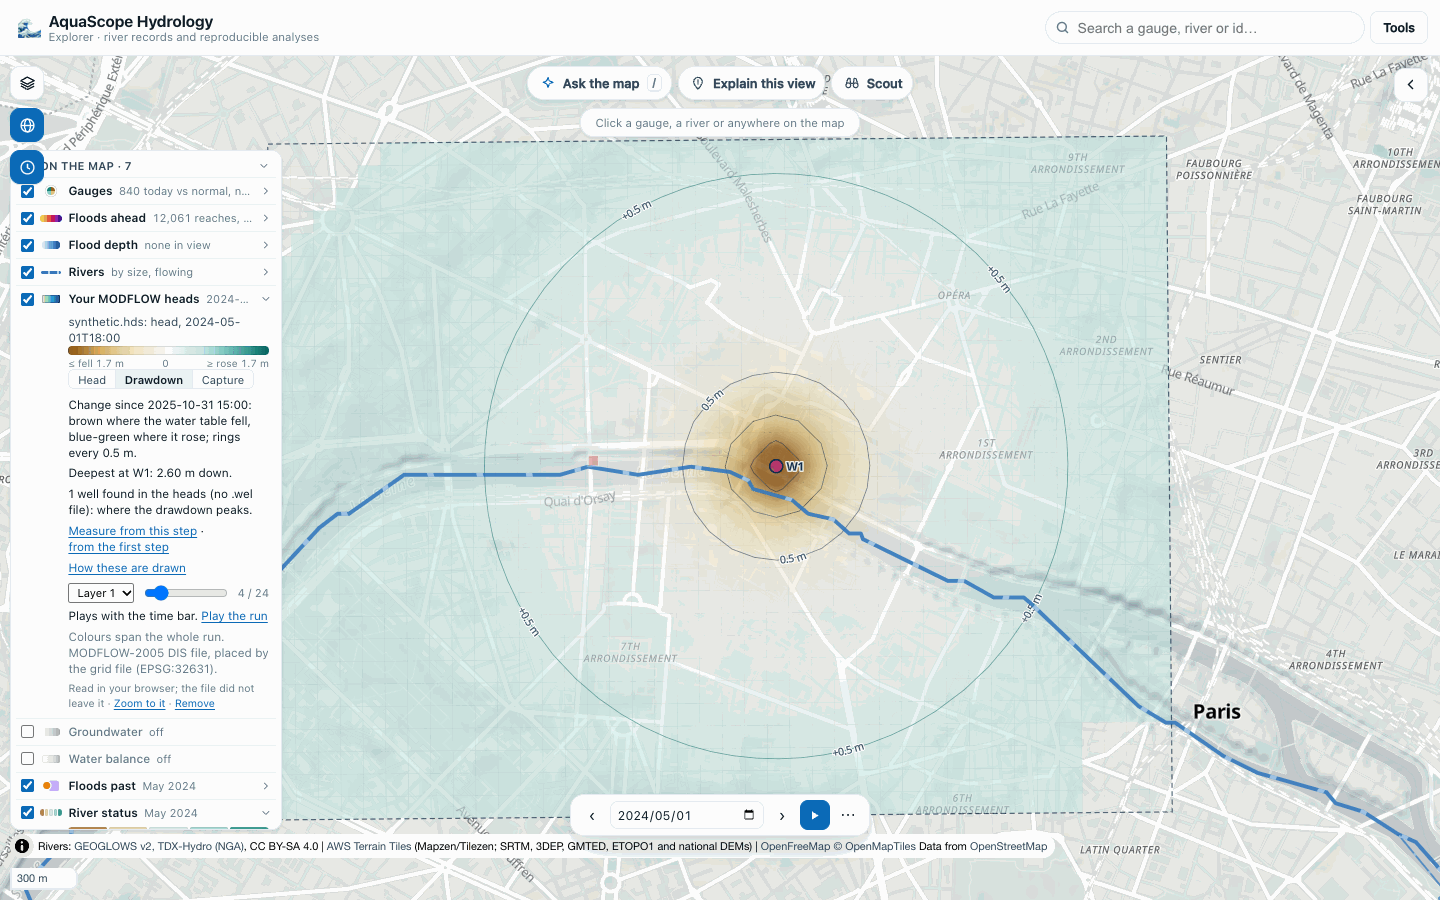
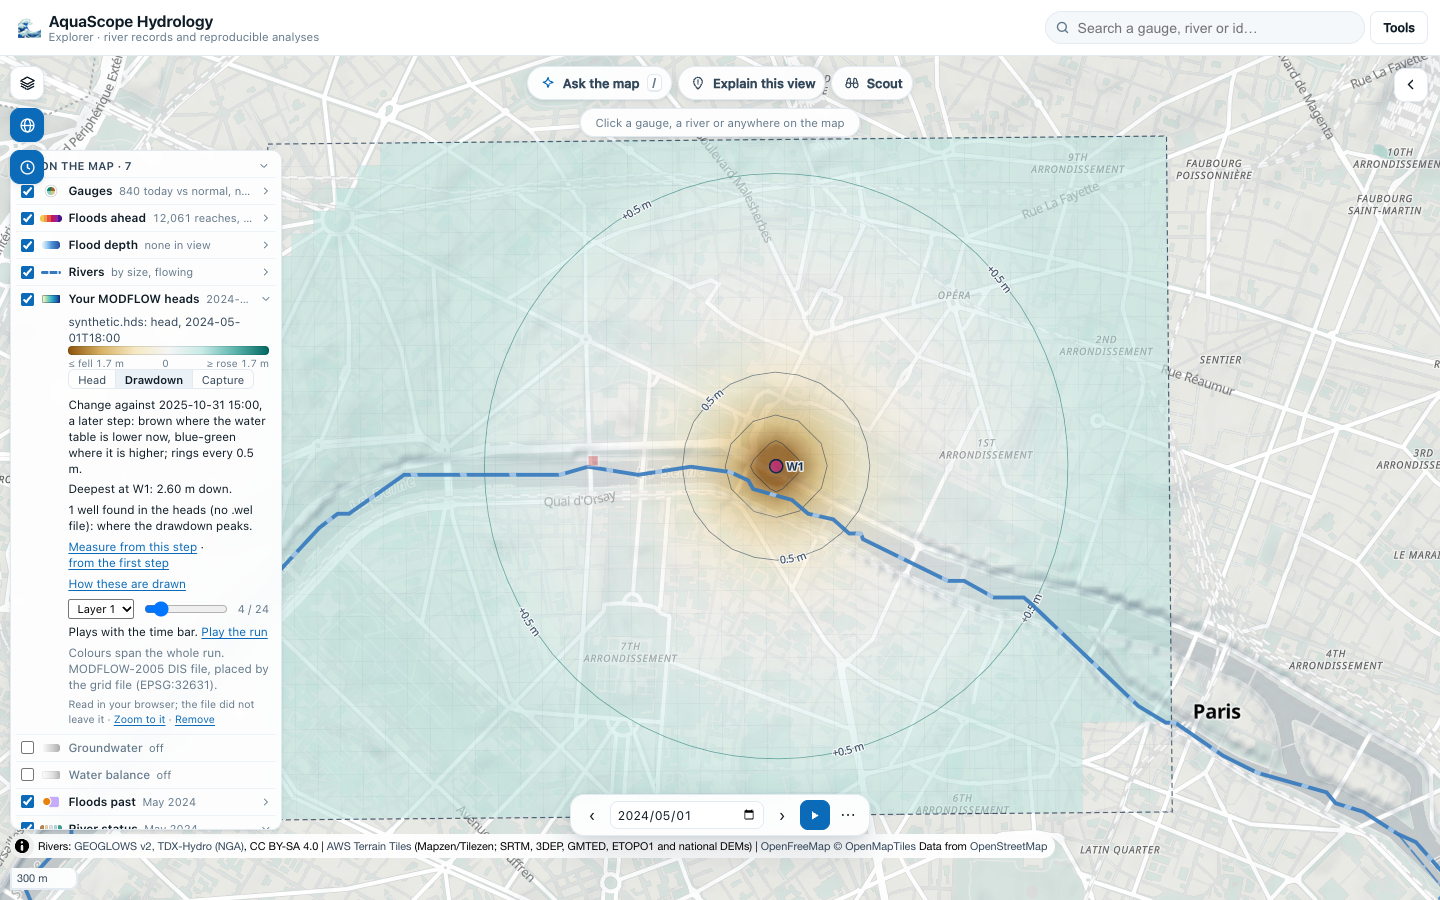
fix(explorer): flow arrows avoid each other and the contour labels; view buttons fit a phone (#623)
On a phone the arrows still covered the model: ignoring placement kept them out of
the collision index, so they never saw each other. They now sit under the contour
labels and drop out where they would touch, and fill in as you zoom. The drawdown
screenshot shows the new wording for a later reference step.

Changed region(s): [[0.0, 0.4356, 0.1875, 0.9333]]

diff --git a/explorer/src/groundwater-views.js b/explorer/src/groundwater-views.js
@@ -70,9 +70,9 @@ function ensureLayers() {
   const fresh = !map.getSource(L.contours);
   if (!map.hasImage(ARROW)) map.addImage(ARROW, arrowImage(), { sdf: true, pixelRatio: 2 });
   const before = beforeId();
-  const add = (id, src, spec) => {
+  const add = (id, src, spec, under = before) => {
     if (!map.getSource(src)) map.addSource(src, { type: "geojson", data: EMPTY_FC });
-    if (!map.getLayer(id)) map.addLayer({ id, source: src, ...spec }, before);
+    if (!map.getLayer(id)) map.addLayer({ id, source: src, ...spec }, under);
   };
   add(L.zones, L.zones, { type: "fill", paint: { "fill-color": ["get", "color"], "fill-opacity": 0.16 } });
   add(L.zoneLine, L.zones, { type: "line", paint: { "line-color": ["get", "color"], "line-width": 1.8, "line-opacity": 0.9 } });
@@ -89,12 +89,13 @@ function ensureLayers() {
     "text-field": ["get", "label"], "text-font": ["Noto Sans Regular"], "text-size": ["case", ["get", "index"], 11.5, 10.5],
     "text-max-angle": 30, "text-keep-upright": true, "text-padding": 4 },
   paint: { "text-color": "#0b2440", "text-halo-color": "rgba(255,255,255,0.92)", "text-halo-width": 1.4 } });
-  // Arrows that would touch drop out (no overlap), so a small model seen from afar, or on a phone, keeps a calm,
-  // even scatter and fills in as you zoom; they never push the contour labels away (ignore placement).
+  // Arrows that would touch drop out, so a small model seen from afar, or on a phone, keeps a calm, even scatter and
+  // fills in as you zoom. They sit under the contour labels, which are placed first and keep their room.
   add(L.arrows, L.arrows, { type: "symbol", layout: { "icon-image": ARROW, "icon-rotate": ["get", "b"],
-    "icon-rotation-alignment": "map", "icon-size": ["get", "s"], "icon-allow-overlap": false, "icon-ignore-placement": true,
+    "icon-rotation-alignment": "map", "icon-size": ["get", "s"], "icon-allow-overlap": false, "icon-ignore-placement": false,
     "icon-padding": 3 },
-  paint: { "icon-color": "#14324f", "icon-halo-color": "rgba(255,255,255,0.9)", "icon-halo-width": 1.2, "icon-opacity": 0.9 } });
+  paint: { "icon-color": "#14324f", "icon-halo-color": "rgba(255,255,255,0.9)", "icon-halo-width": 1.2, "icon-opacity": 0.9 } },
+  map.getLayer(L.labels) ? L.labels : before);
   add(L.wells, L.wells, { type: "circle", paint: {
     "circle-radius": ["interpolate", ["linear"], ["zoom"], 9, 3.5, 14, 6.5],
     "circle-color": ["case", ["get", "pumping"], ["get", "color"], "#ffffff"],

diff --git a/explorer/groundwater.css b/explorer/groundwater.css
@@ -6,9 +6,9 @@
   box-shadow: inset 0 0 0 1px rgba(11, 36, 64, .35);
   border-radius: 1px;
 }
-.gw-segs { display: flex; gap: 0; margin: 0 0 .45rem; border: 1px solid var(--line); border-radius: 6px; overflow: hidden; width: max-content; }
+.gw-segs { display: flex; gap: 0; margin: 0 0 .45rem; border: 1px solid var(--line); border-radius: 6px; overflow: hidden; width: max-content; max-width: 100%; }
 .gw-seg {
-  font: inherit; font-size: .7rem; border: 0; background: none; padding: .18rem .55rem; color: var(--ink-2); cursor: pointer;
+  font: inherit; font-size: .7rem; border: 0; background: none; padding: .18rem .55rem; color: var(--ink-2); cursor: pointer; min-width: 0;
 }
 .gw-seg + .gw-seg { border-left: 1px solid var(--line); }
 .gw-seg.on { background: var(--bg-sunken); color: var(--ink); font-weight: 600; }
